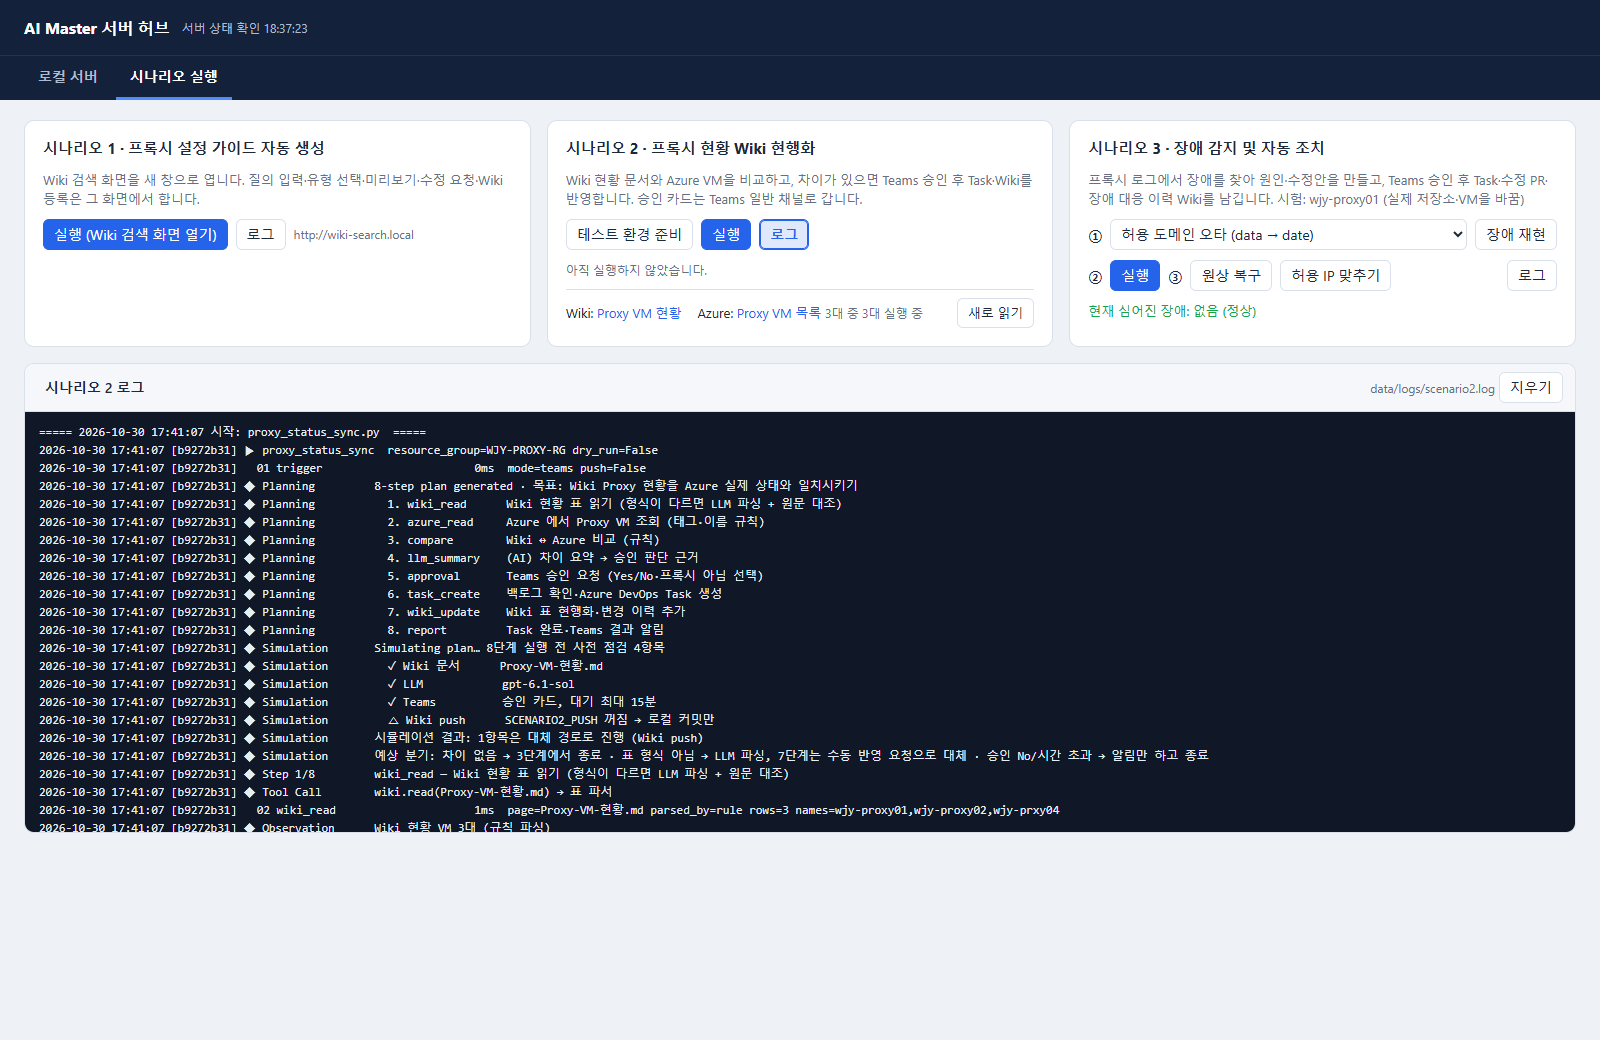
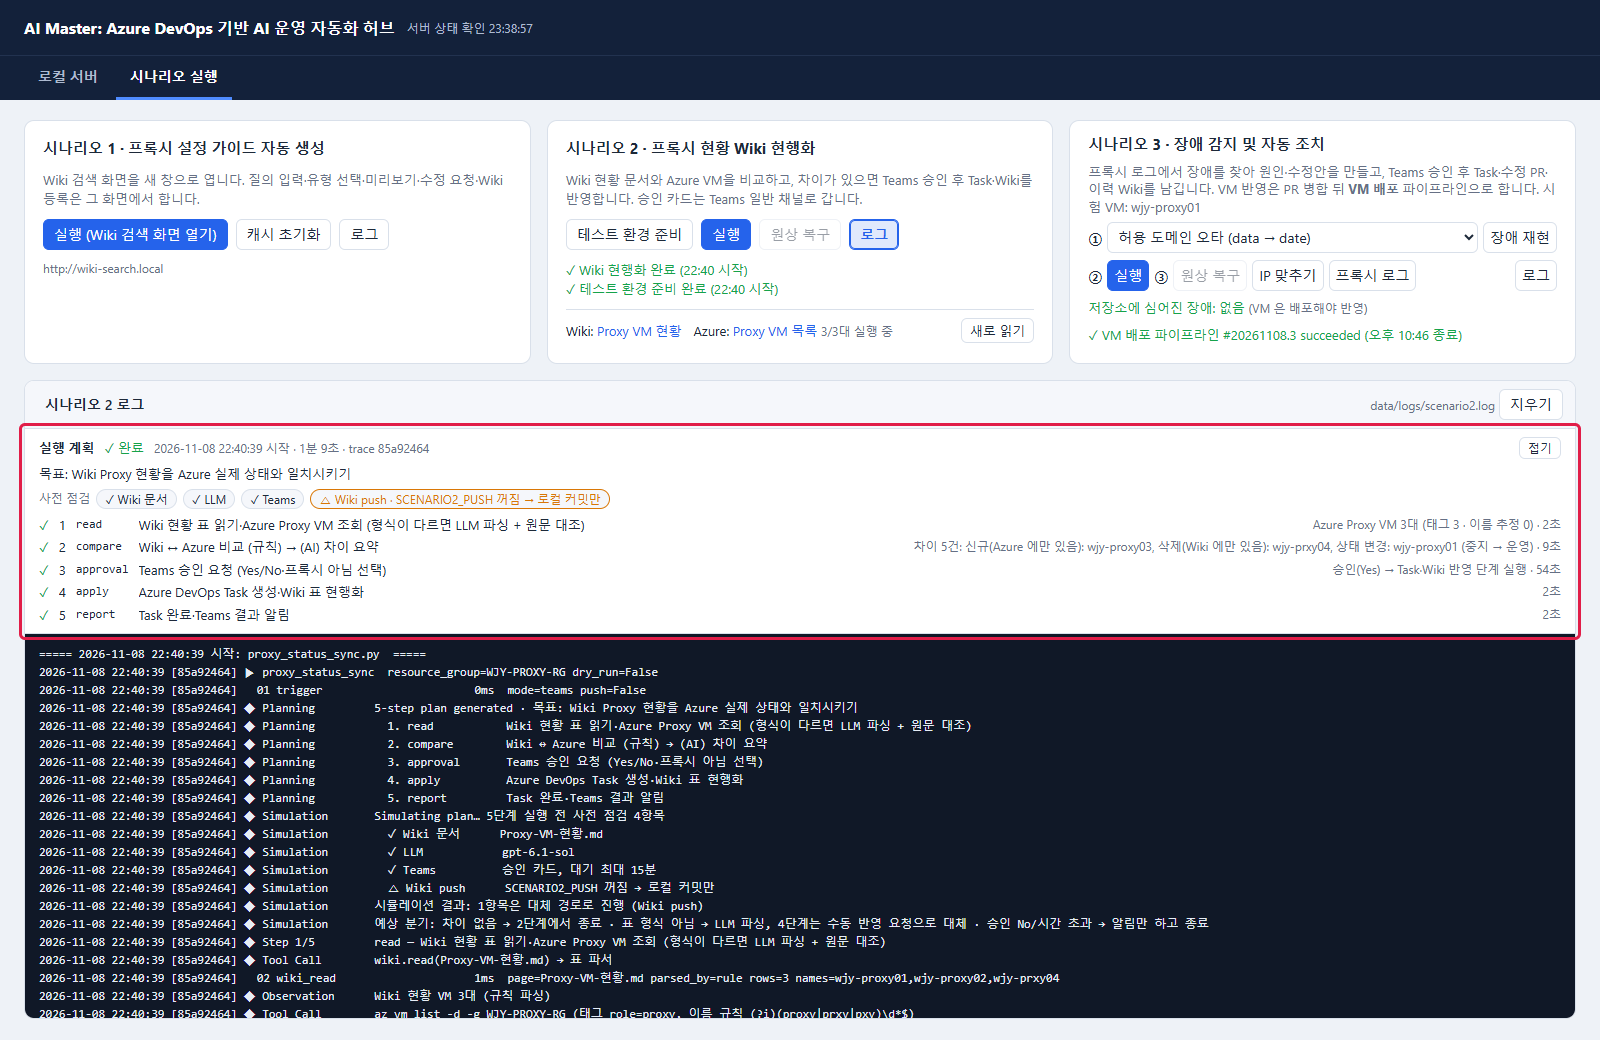
README 허브 화면 재촬영: 실행 계획 패널, 시나리오 1 로그 추가
- 허브 시나리오 2·3 로그 화면을 다시 찍음(묶은 단계, 로그 위 실행 계획 패널에 빨간 테두리, 원상 복구 버튼)
- 시나리오 1 Wiki 검색 서버 로그와 실행 계획 화면(hub-scenario1-log.png)을 새로 추가
- 촬영 스크립트: 시나리오 2 카드 링크가 다 읽힐 때까지 기다리고, 시나리오 3 은 계획 줄부터 보이게 스크롤
- README 화면 설명·촬영 날짜 현행화

diff --git a/test/capture_readme.py b/test/capture_readme.py
@@ -209,12 +209,34 @@ def hub(page):
     page.wait_for_function("document.querySelector('#slog').textContent.length > 100")
     # 마지막 실제 실행(승인까지 한 실행) 시작 줄로 스크롤한다. 그 뒤의 '새로 읽기' 기록 줄은 화면 아래로 밀린다.
     scroll_to_last(page, "시작: proxy_status_sync.py ")
+    try:  # 카드 아래 Wiki·Azure 링크(az·DevOps 조회라 처음엔 수 초 걸림)
+        page.wait_for_function("!document.getElementById('s2links').textContent.includes('불러오는 중')", timeout=60000)
+    except Exception:
+        print("s2links: 링크를 못 읽어 불러오는 중 상태로 찍음", flush=True)
+    plan_panel(page)
     shot(page, "hub-scenarios.png")
     with page.expect_response(lambda r: "/api/log?" in r.url and "scenario3" in r.url):
         page.locator('button.slog[data-key="scenario3"]').click()
     page.wait_for_function("document.querySelector('#slog').textContent.includes('incident_response')")
-    scroll_to_last(page, "시작: incident_response.py")
+    # 실행 시작 직후의 배포 설정 점검 줄 대신 계획(◆ Planning)부터 보이게 한다
+    scroll_to_last(page, "6-step plan generated")
+    plan_panel(page)
     shot(page, "scenario3-run.png")
+    # 시나리오 1(Wiki 검색 서버) 로그: 로그 위 실행 계획 패널에 가장 최근 질의 1건의 4단계 진행
+    with page.expect_response(lambda r: "/api/log?" in r.url and "wiki-search" in r.url):
+        page.locator('button.slog[data-key="wiki-search"]').click()
+    page.wait_for_function("document.querySelector('#slog').textContent.includes('guide/stream')")
+    scroll_to_last(page, "▶ guide/stream")
+    plan_panel(page)
+    shot(page, "hub-scenario1-log.png")
+
+
+def plan_panel(page):
+    """로그 위 실행 계획 패널이 그려질 때까지 기다리고(펼친 상태로) 빨간 테두리를 친다."""
+    page.wait_for_function("(() => { const p = document.getElementById('splan'); return p && !p.hidden && p.querySelector('li'); })()",
+                           timeout=15000)
+    page.wait_for_timeout(300)
+    mark(page, "document.getElementById('splan')")
 
 
 def proxy(page):

diff --git a/README.md b/README.md
@@ -2,7 +2,7 @@
 
 **Azure DevOps 기반 AI 운영 자동화 시나리오** (2026. 10)
 
-문서 갱신: **2026-11-03**, 화면 촬영: 2026-10-30부터 2026-11-03까지(시나리오별 날짜는 각 실행 화면에 표기). 승인·완료 화면은 실제 실행 때 남긴 승인 기록을 읽기 전용 서버에 다시 띄워 촬영했습니다.
+문서 갱신: **2026-11-08**, 화면 촬영: 2026-10-30부터 2026-11-08까지(시나리오별 날짜는 각 실행 화면에 표기). 승인·완료 화면은 실제 실행 때 남긴 승인 기록을 읽기 전용 서버에 다시 띄워 촬영했습니다.
 
 ## 목차
 
@@ -148,6 +148,22 @@ flowchart TD
 
 ![Wiki 검색 - 웹 검색 결과와 웹 참고 링크](docs/images/wiki-search-web-links.png)
 
+**⑥ 허브 로그와 실행 계획** (2026-11-08 촬영)
+
+- 허브 시나리오 1 카드의 "로그"를 누르면 Wiki 검색 서버 로그(`wiki-search.log`)가 나옵니다.
+- 로그 위 실행 계획 패널(빨간 테두리)은 가장 최근 질의 1건의 4단계 진행입니다. 단계마다 걸린 시간과 결과 요약이 오른쪽에 붙습니다.
+- 이 질의는 저장된 가이드를 써서 4단계가 "저장된 가이드 사용 (LLM 생략)"으로 끝났습니다. 새로 만들면 같은 자리에 "(AI) 근거·출처를 단 가이드 생성"이 나옵니다.
+
+| 로그 | 의미 |
+|---|---|
+| `▶ guide/stream` | 가이드 요청 시작. `[c706bf9b]`는 이 요청의 id |
+| `◆ Planning` | 4단계 계획: 질의 해석·Wiki 검색 → 근거 선별 → 근거 충분성 판단·웹 검색 → 가이드 생성 |
+| `◆ Simulation` | 실행 전 점검 4항목(Wiki 색인, 임베딩, LLM, 웹 검색) |
+| `◆ Step`·`◆ Self-Correction` | 단계 시작, 질의 오타 교정(프록실 → 프록시) |
+| 번호가 붙은 줄(`02 analyze` 등) | 단계 안에서 실제로 호출한 노드와 걸린 시간 |
+
+![시나리오 1 - 허브 Wiki 검색 서버 로그와 실행 계획](docs/images/hub-scenario1-log.png)
+
 ### 1.2 시나리오 2 · 프록시 현황 Wiki 현행화
 
 Wiki의 프록시 현황을 Azure의 실제 VM과 비교하고, 차이가 있으면 Teams 승인을 받아 Task를 만들고 문서를 갱신합니다. 원칙은 **정확해야 하는 일(비교·대상 판별·표 갱신)은 규칙, 읽고 설명하는 일은 LLM**입니다. 실제 운영에서는 Proxy VM이 **항상 켜져 있다고 가정**하므로, 꺼진 VM은 문서 갱신과 별도로 이상 징후로 알립니다. 실행: `python proxy_tools\proxy_status_sync.py` (자세한 내용은 [시나리오 2 실행](#83-시나리오-2--실행-proxy_status_syncpy))
@@ -203,9 +219,11 @@ flowchart TD
 
 ![시나리오 2 - Azure Portal VM 목록(Wiki와 다른 곳)](docs/images/azure-scenario2-vms.png)
 
-**② 허브에서 실행**
+**② 허브에서 실행** (2026-11-08 촬영)
 
 - 카드 아래에 비교 대상 Wiki 문서와 Azure VM 목록 링크가 있습니다.
+- "원상 복구"는 실행으로 Wiki가 이미 반영되어 꺼져(회색) 있습니다. "테스트 환경 준비" 뒤에만 켜집니다.
+- 로그 위 실행 계획 패널(빨간 테두리)에 5단계 진행과 단계별 결과가 나옵니다.
 - 아래 로그는 이 실행의 시작 부분입니다. 줄마다 의미는 다음과 같습니다.
 
 | 로그 | 의미 |
@@ -307,7 +325,10 @@ NGINX VM을 고르면 리버스 프록시 로그를 봅니다.
 
 ![시나리오 3 - NGINX 실제 로그](docs/images/proxy-log-nginx.png)
 
-**② 허브에서 실행**
+**② 허브에서 실행** (2026-11-08 촬영)
+
+- 로그 위 실행 계획 패널(빨간 테두리)에 6단계 진행과 단계별 결과가 나옵니다.
+- "원상 복구"는 장애 재현 뒤에만 켜지고, 이 화면처럼 VM 배포 파이프라인이 성공한 뒤에는 꺼져(회색) 있습니다.
 
 로그의 `◆ Planning`은 6단계 계획입니다. 로그 수집 → AI 분석·사례 검색 → 설정 확인·수정안 → 승인 → Task·PR → 이력 Wiki 순서입니다. `◆ Simulation`은 실행 전 점검과 예상 분기입니다.
 
@@ -1261,7 +1282,7 @@ Google Chrome이 설치되어 있어야 합니다. `--only wiki|viewer|hub|proxy
 | 화면 | 캡처 시 수행하는 동작 | 외부 반영 |
 |---|---|---|
 | 시나리오 1 | 실제 Wiki 검색 → 포워드 가이드 생성(캐시가 있으면 "새로 만들기"로 새로 생성) → "다시 선택"으로 같은 질의 재요청(캐시 사용) → 리버스 가이드 생성(웹 검색 보완)·수정 입력 영역 확인 | LLM·임베딩, 조건에 따라 웹 검색 API 호출. Wiki 등록·수정 반영 버튼은 누르지 않음 |
-| 시나리오 2 | 허브에서 저장된 점검 로그 조회 | 새 점검·Teams 요청·Task 생성·Wiki 갱신 없음 |
+| 시나리오 2 | 허브에서 저장된 점검 로그와 로그 위 실행 계획 패널 조회. 같은 묶음(`--only hub`)에서 시나리오 1 서버 로그(가장 최근 질의)와 시나리오 3 실행 로그도 찍음 | 새 점검·Teams 요청·Task 생성·Wiki 갱신 없음 |
 | 시나리오 3 | Squid·NGINX 실제 로그·정책 조회, 허브의 기존 실행 로그 조회 | SSH 읽기만 수행. 장애 주입·복구·PR 생성·배포 없음 |
 | 승인·완료 화면 | 실제 실행 때 `data/approvals/`에 남긴 승인 화면 내용·최종 진행 상태(시나리오별 Yes로 끝난 최신 1건)를 같은 화면 코드로 읽기 전용 서버에 띄워 촬영. 기록이 없으면 예시 데이터 | 없음. 예시 데이터일 때만 **화면 예시 · 외부 반영 없음** 표시 |
 | Wiki 수정 전/후 (`--only wikidiff`) | wiki-repo에서 시나리오 2의 마지막 현행화 커밋과 그 직전 파일을 꺼내 위아래로 그리고, 표는 첫 칸(이름)으로 행을 맞춰 바뀐 칸·추가 행·삭제 행을 빨갛게 표시 → `wiki-scenario2-diff.png` | 없음 |
